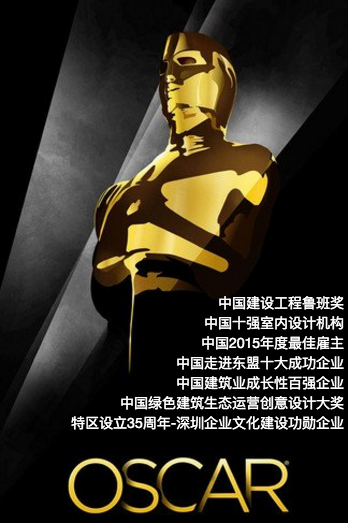
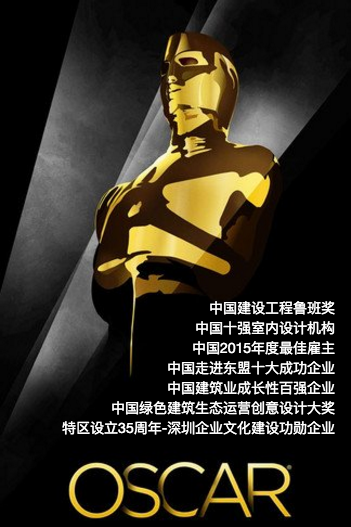
adjust part 3

diff --git a/index.html b/index.html
@@ -217,7 +217,7 @@ background-size: cover;
       </div>
       <div class="modal-body" style="max-height: calc(100vh - 100px); overflow-y: auto;">
        <!-- <img src="content/3.jpg" class="imagebound">
-       <p class="text-right" style="color: #FFFFFF; margin-top: -230px; margin-left: 10px">
+       <p class="text-right" style="color: #FFFFFF; margin-top: -230px; margin-right: 12px">
         中国建设工程鲁班奖 <br>
         中国十强室内设计机构 <br>
         中国2015年度最佳雇主 <br>
